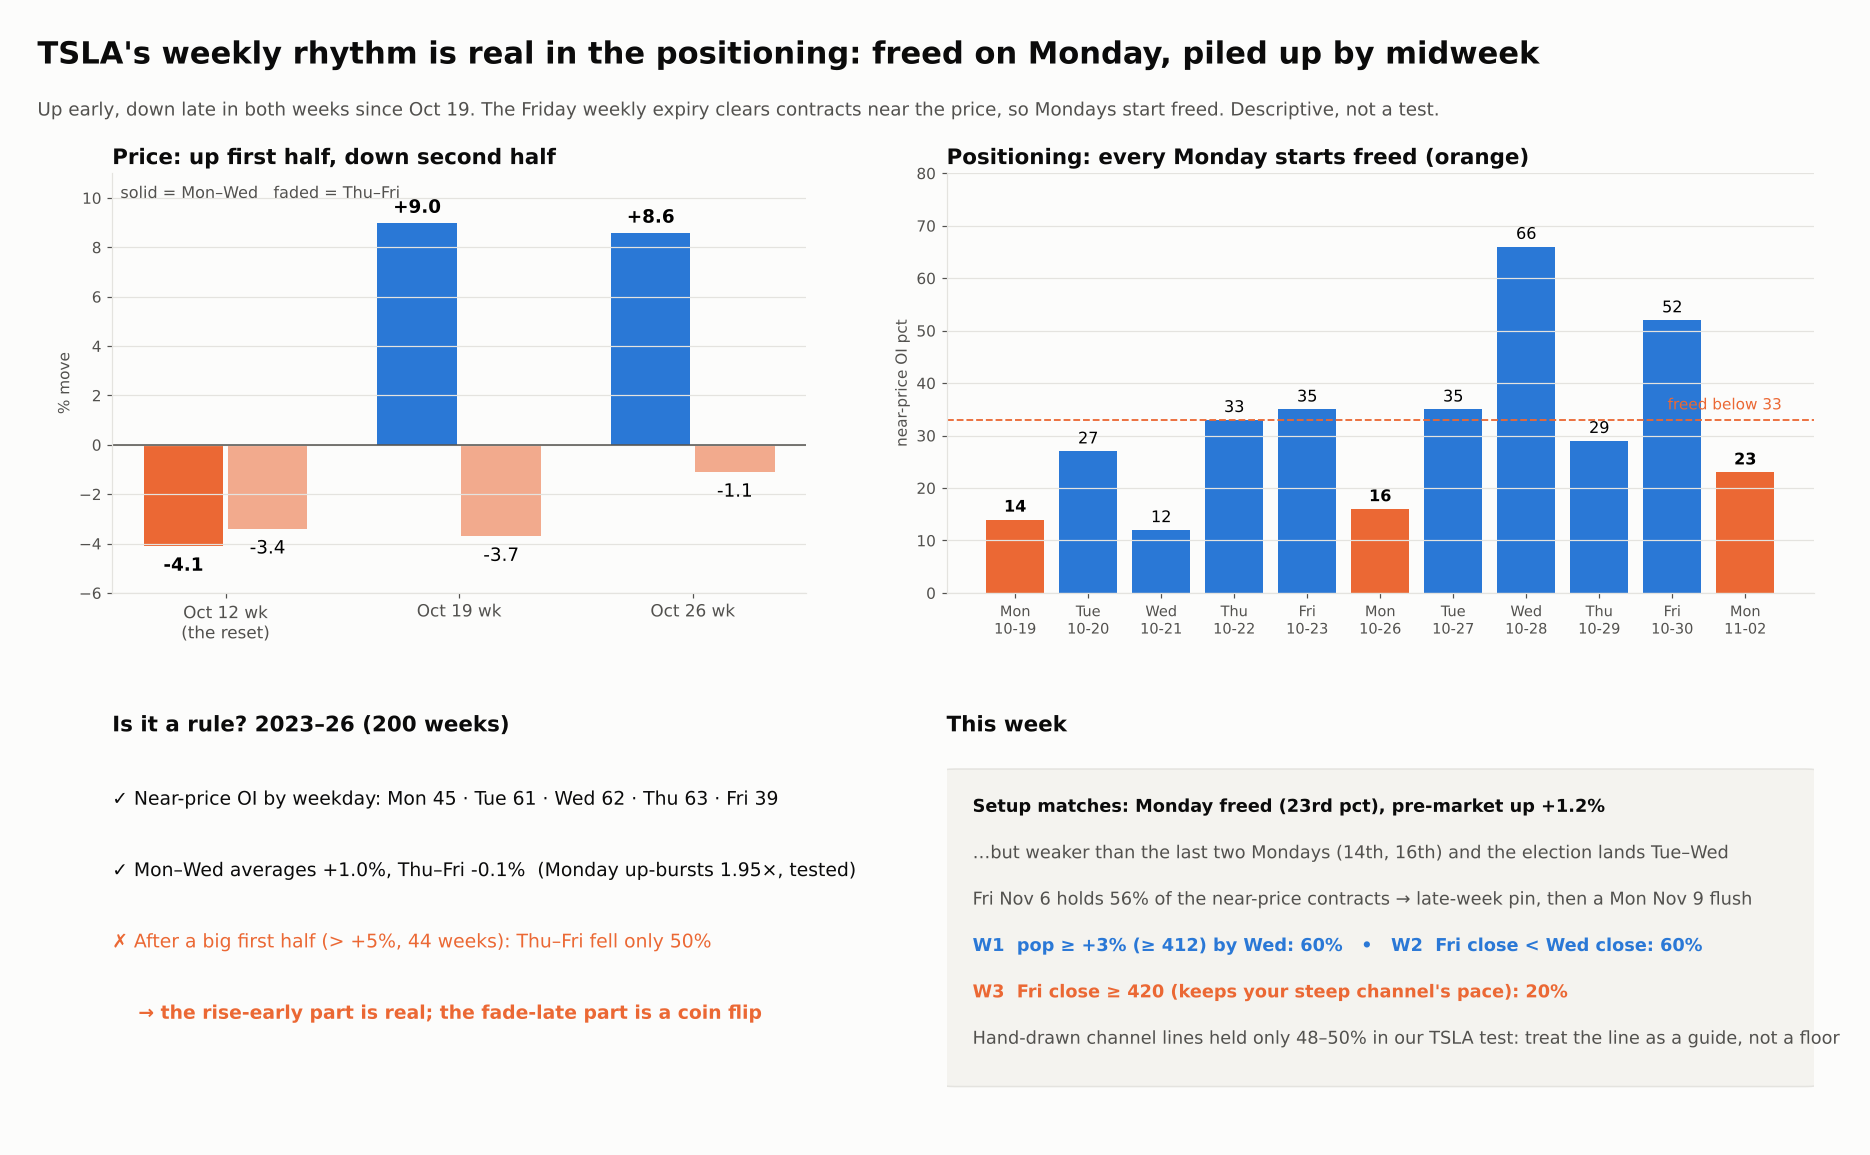
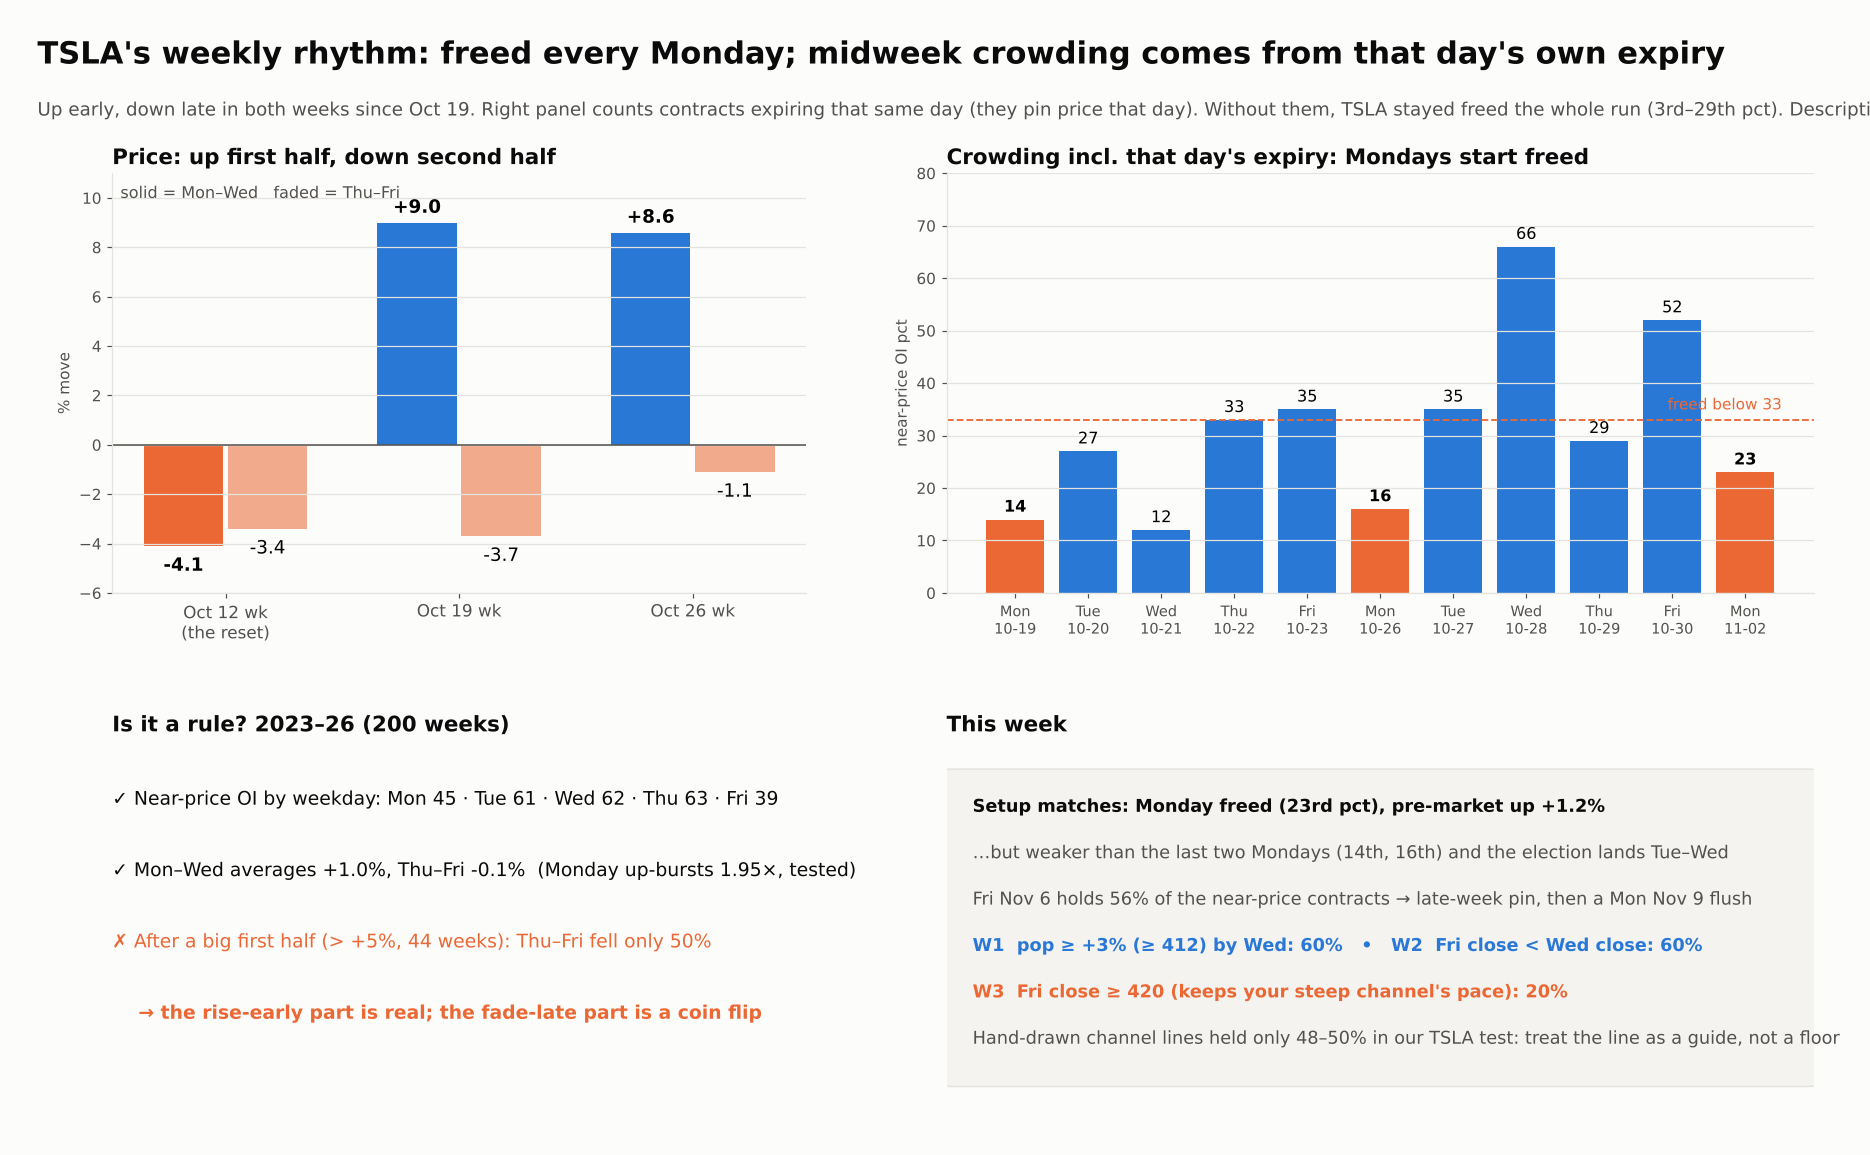
Erratum: TSLA October cycle recomputed with full-coverage chains (gamma slightly lower, TSLA freed throughout the run); figures corrected
Claude-Session: https://claude.ai/code/session_01BLeRcE4q4QKts4yCLqRzgv

Changed region(s): [[0.2791, 0.0935, 0.8684, 0.1558], [0.2171, 0.0312, 0.9305, 0.0623], [0.9615, 0.0935, 1.0, 0.1247]]

diff --git a/research/agents/2026-11-02-live-read/figure_tsla_cycle.py b/research/agents/2026-11-02-live-read/figure_tsla_cycle.py
@@ -9,9 +9,9 @@ BLUE, ORG, BG, INK, INK2, GRID, GRAY = "#2a78d6", "#eb6834", "#fcfcfb", "#0b0b0b
 plt.rcParams.update({"font.family": "DejaVu Sans", "axes.edgecolor": GRID, "axes.labelcolor": INK2, "xtick.color": INK2, "ytick.color": INK2, "axes.spines.top": False, "axes.spines.right": False})
 fig, axs = plt.subplots(3, 1, figsize=(16, 12.5), sharex=True, facecolor=BG, gridspec_kw=dict(height_ratios=[1.35, 1, 1], hspace=0.12))
 fig.subplots_adjust(left=0.07, right=0.97, top=0.86, bottom=0.06)
-fig.text(0.02, 0.955, "TSLA's October cycle lined up: reset → rebuild with price → dip → bigger block → pinned stall", fontsize=19, weight="bold", color=INK)
+fig.text(0.02, 0.955, "TSLA's October cycle (corrected): reset → rebuild with price → dip → bigger block → pinned stall", fontsize=19, weight="bold", color=INK)
 fig.text(0.02, 0.915, "Own gamma and freed: engine recipe, positions going into each day. TSLA DIX = FINRA dark-pool index, 5-day mean ranked vs its past year.\n"
-         "Descriptive map, not a test. Phases follow REPORT §4v (the named TSLA moves): flush at the flip → first block → dip → bigger block → stall into a pile of OI.", fontsize=11, color=INK2)
+         "Corrected 09:40 ET: full-coverage chains (an earlier version capped expiries at 70 days and overstated gamma and near-OI). Descriptive map, not a test (REPORT §4v template).", fontsize=11, color=INK2)
 idx = list(x.index); pos = {d: i for i, d in enumerate(idx)}; X = range(len(idx))
 P = [("RESET", "2026-10-14", "2026-10-16", ORG), ("BLOCK 1\n+9%", "2026-10-19", "2026-10-21", BLUE), ("DIP to\nthe flip", "2026-10-22", "2026-10-23", ORG),
      ("BLOCK 2\n+9.5%", "2026-10-26", "2026-10-27", BLUE), ("PINNED\nstall", "2026-10-28", "2026-10-30", GRAY)]
@@ -25,11 +25,12 @@ ax.step(X, x["call wall"], where="mid", color=BLUE, lw=1.3, alpha=0.8, label="ca
 for lab, a, b, col in P: ax.text((pos[pd.Timestamp(a)] + pos[pd.Timestamp(b)]) / 2, 342, lab, ha="center", va="bottom", fontsize=11.5, weight="bold", color=col if col != GRAY else INK2)
 ax.set_ylim(340, 425); ax.text(len(idx) - 0.6, 399.9, " now 402\n pre-mkt", fontsize=10, color=INK, va="center")
 ax = axs[1]; ax.axhspan(0, 0.30, color=ORG, alpha=0.08, lw=0); ax.axhspan(0.90, 1.02, color=BLUE, alpha=0.10, lw=0)
-ax.plot(X, x["own gamma pct"], color=BLUE, lw=2.4, marker="o", ms=4); ax.set_ylim(0, 1.02); ax.set_ylabel("own gamma pct")
+ax.plot(X, x["own gamma pct"], color=BLUE, lw=2.4, marker="o", ms=4, label="own gamma pct"); ax.plot(X, x["near-OI pct (freed <= 0.33)"], color=ORG, lw=1.8, ls="--", marker="s", ms=3, label="near-price OI pct (freed below 0.33)")
+ax.axhline(1 / 3, color=ORG, lw=0.8, ls=":"); ax.legend(fontsize=9.5, frameon=False, loc="upper left", bbox_to_anchor=(0.0, 0.88)); ax.set_ylim(0, 1.02); ax.set_ylabel("percentile")
 ax.text(0.2, 0.05, "reset ≤ 0.30", fontsize=10, color=ORG); ax.text(0.2, 0.93, "pinned ≥ 0.90", fontsize=10, color=BLUE)
-ax.annotate("0.14: flushed at the flip", (pos[pd.Timestamp("2026-10-16")], 0.14), (pos[pd.Timestamp("2026-10-16")] - 5.5, 0.42), fontsize=10, arrowprops=dict(arrowstyle="-", color=GRAY))
-ax.annotate("1.00: pinned", (pos[pd.Timestamp("2026-10-27")], 1.0), (pos[pd.Timestamp("2026-10-27")] - 4.2, 0.72), fontsize=10, arrowprops=dict(arrowstyle="-", color=GRAY))
-ax.annotate("0.66 after the\nOct 30 expiry", (pos[pd.Timestamp("2026-10-30")], 0.66), (pos[pd.Timestamp("2026-10-30")] - 2.6, 0.30), fontsize=10, arrowprops=dict(arrowstyle="-", color=GRAY))
+ax.annotate("0.17: flushed at the flip", (pos[pd.Timestamp("2026-10-16")], 0.17), (pos[pd.Timestamp("2026-10-16")] - 5.5, 0.42), fontsize=10, arrowprops=dict(arrowstyle="-", color=GRAY))
+ax.annotate("0.93: pinned", (pos[pd.Timestamp("2026-10-27")], 0.93), (pos[pd.Timestamp("2026-10-27")] - 4.2, 0.72), fontsize=10, arrowprops=dict(arrowstyle="-", color=GRAY))
+ax.annotate("0.60 after the\nOct 30 expiry", (pos[pd.Timestamp("2026-10-30")], 0.60), (pos[pd.Timestamp("2026-10-30")] - 2.6, 0.30), fontsize=10, arrowprops=dict(arrowstyle="-", color=GRAY))
 ax = axs[2]; ax.plot(X, x["TSLA DPI 5d pct"], color=INK, lw=2.4, marker="o", ms=4, label="TSLA DIX (5-day pct)")
 ax.plot(X, x["S&P GEX pct"], color=GRAY, lw=1.4, label="S&P gamma pct (for contrast)"); ax.set_ylim(0, 1.02); ax.set_ylabel("percentile")
 ax.axhline(2 / 3, color=BLUE, ls=":", lw=1); ax.text(0.2, 0.69, "top third", fontsize=10, color=BLUE)

diff --git a/research/agents/2026-11-02-live-read/figure_tsla_adhd.py b/research/agents/2026-11-02-live-read/figure_tsla_adhd.py
@@ -9,29 +9,29 @@ BLUE, ORG, BG, INK, INK2, GRID, GRAY, LG = "#2a78d6", "#eb6834", "#fcfcfb", "#0b
 plt.rcParams.update({"font.family": "DejaVu Sans"})
 fig = plt.figure(figsize=(17, 9.6), facecolor=BG); ax = fig.add_axes([0, 0, 1, 1]); ax.axis("off"); ax.set_xlim(0, 100); ax.set_ylim(0, 100)
 ax.text(2.5, 94, "TSLA's October run, in 6 boxes", fontsize=26, weight="bold", color=INK)
-ax.text(2.5, 89.3, "Bars: gamma = dealer cushion (full = pinned)   •   DIX = dark-pool buying (full = heavy buying)", fontsize=13.5, color=INK2)
-B = [("1. RESET", "Oct 14–16", "355", "on the flip", 0.14, 0.01, "cushion gone,\nsellers done", ORG),
-     ("2. BLOCK 1", "Oct 19–21", "387", "+9%", 0.87, 0.53, "gamma rebuilds\nwith price", BLUE),
-     ("3. DIP", "Oct 22–23", "372", "back to flip", 0.30, 0.73, "flush again,\nbuyers step in", ORG),
-     ("4. BLOCK 2", "Oct 26–27", "408", "+9.5%", 1.00, 0.75, "bigger leg,\ngamma maxed", BLUE),
-     ("5. STALL", "Oct 28–30", "400", "pinned", 0.95, 0.71, "stuck in a pile\nof contracts", GRAY),
-     ("NOW", "Mon Nov 2", "402", "6% above flip", 0.65, 0.65, "pause,\nnot a top", INK)]
+ax.text(2.5, 89.3, "Bars: gamma = dealer cushion (full = pinned) • DIX = dark-pool buying • crowding = contracts near the price (short = freed). Corrected 09:40 ET.", fontsize=12.5, color=INK2)
+B = [("1. RESET", "Oct 14–16", "355", "on the flip", 0.17, 0.02, 0.03, "cushion gone,\nsellers done", ORG),
+     ("2. BLOCK 1", "Oct 19–21", "387", "+9%", 0.75, 0.53, 0.25, "gamma rebuilds\nwith price", BLUE),
+     ("3. DIP", "Oct 22–23", "372", "near the flip", 0.31, 0.73, 0.04, "flush again,\nbuyers step in", ORG),
+     ("4. BLOCK 2", "Oct 26–27", "408", "+9.5%", 0.93, 0.75, 0.18, "bigger leg,\ngamma maxed", BLUE),
+     ("5. STALL", "Oct 28–30", "400", "pinned", 0.90, 0.71, 0.29, "gamma maxed,\nfreed closing", GRAY),
+     ("NOW", "Mon Nov 2", "402", "6% above flip", 0.65, 0.65, 0.23, "pause,\nnot a top", INK)]
 w, gap, x0 = 14.6, 1.6, 2.5
-for i, (t, d, px, sub, gm, dx, meaning, col) in enumerate(B):
+for i, (t, d, px, sub, gm, dx, fr, meaning, col) in enumerate(B):
     x = x0 + i * (w + gap)
     ax.add_patch(FancyBboxPatch((x, 30), w, 54, boxstyle="round,pad=0.3,rounding_size=1.5", fc="white" if t != "NOW" else "#f4f3ef", ec=col, lw=2.6))
     ax.text(x + w / 2, 79.5, t, ha="center", fontsize=16, weight="bold", color=col)
     ax.text(x + w / 2, 75.6, d, ha="center", fontsize=11, color=INK2)
     ax.text(x + w / 2, 66.5, px, ha="center", fontsize=30, weight="bold", color=INK)
     ax.text(x + w / 2, 62.2, sub, ha="center", fontsize=11.5, color=INK2)
-    for j, (lab, v, c) in enumerate([("gamma", gm, BLUE), ("DIX", dx, INK)]):
-        y = 53 - j * 7
+    for j, (lab, v, c) in enumerate([("gamma", gm, BLUE), ("DIX", dx, INK), ("crowding (low = freed)", fr, ORG)]):
+        y = 54 - j * 6.2
         ax.text(x + 0.8, y + 2.6, lab, fontsize=10.5, color=INK2)
         ax.add_patch(FancyBboxPatch((x + 0.8, y), w - 1.6, 2, boxstyle="round,pad=0,rounding_size=0.8", fc=LG, ec="none"))
         ax.add_patch(FancyBboxPatch((x + 0.8, y), max((w - 1.6) * v, 1.0), 2, boxstyle="round,pad=0,rounding_size=0.8", fc=c, ec="none"))
     ax.text(x + w / 2, 35.3, meaning, ha="center", va="center", fontsize=12, color=INK, weight="bold")
     if i < len(B) - 1: ax.annotate("", (x + w + gap - 0.1, 57), (x + w + 0.1, 57), arrowprops=dict(arrowstyle="-|>", color=GRAY, lw=2))
-ax.text(2.5, 23.5, "It lined up: cushion reset at the flip → rebuilt with each leg → maxed at the top. Dark-pool buying rose from washed-out to strong.", fontsize=13.5, color=INK, weight="bold")
+ax.text(2.5, 23.5, "It lined up: cushion reset at the flip → rebuilt with each leg → maxed at the top. Freed the whole run. Dark-pool buying rose from washed-out to strong.", fontsize=13.5, color=INK, weight="bold")
 ax.add_patch(FancyBboxPatch((2.5, 2.5), 45.5, 16, boxstyle="round,pad=0.3,rounding_size=1.5", fc="#eaf2fb", ec=BLUE, lw=1.5))
 ax.text(4, 15.3, "NEXT, path A: dip to ~377–381 (the flip)", fontsize=14, weight="bold", color=BLUE)
 ax.text(4, 10.8, "flushes the cushion again = the start of the\nnext leg (strongest if 'freed' too). Likely around\nthe Nov 6 or Nov 20 expiries.", fontsize=11.8, color=INK, va="center")

diff --git a/research/agents/2026-11-02-live-read/figure_weekly.py b/research/agents/2026-11-02-live-read/figure_weekly.py
@@ -10,8 +10,8 @@ BLUE, ORG, BG, INK, INK2, GRID, GRAY, LG = "#2a78d6", "#eb6834", "#fcfcfb", "#0b
 plt.rcParams.update({"font.family": "DejaVu Sans", "axes.edgecolor": GRID, "axes.labelcolor": INK2, "xtick.color": INK2, "ytick.color": INK2, "axes.spines.top": False, "axes.spines.right": False})
 fig = plt.figure(figsize=(17, 10.5), facecolor=BG)
 gs = fig.add_gridspec(2, 2, height_ratios=[1, 0.85], width_ratios=[1, 1.25], hspace=0.38, wspace=0.18, left=0.06, right=0.97, top=0.85, bottom=0.05)
-fig.text(0.02, 0.945, "TSLA's weekly rhythm is real in the positioning: freed on Monday, piled up by midweek", fontsize=20, weight="bold", color=INK)
-fig.text(0.02, 0.9, "Up early, down late in both weeks since Oct 19. The Friday weekly expiry clears contracts near the price, so Mondays start freed. Descriptive, not a test.", fontsize=12, color=INK2)
+fig.text(0.02, 0.945, "TSLA's weekly rhythm: freed every Monday; midweek crowding comes from that day's own expiry", fontsize=20, weight="bold", color=INK)
+fig.text(0.02, 0.9, "Up early, down late in both weeks since Oct 19. Right panel counts contracts expiring that same day (they pin price that day). Without them, TSLA stayed freed the whole run (3rd–29th pct). Descriptive.", fontsize=12, color=INK2)
 ax = fig.add_subplot(gs[0, 0]); ax.set_facecolor(BG)
 wk = W["(c) by week, compounded % [Mon-Wed, Thu-Fri]"]; labs = ["Oct 12 wk\n(the reset)", "Oct 19 wk", "Oct 26 wk"]
 for i, (k, (a, b)) in enumerate(wk.items()):
@@ -26,7 +26,7 @@ cols = [ORG if a[k]["weekday"] == "Mon" else BLUE for k in d]
 ax.bar(range(len(d)), v, color=cols); ax.axhline(33, color=ORG, ls="--", lw=1.2); ax.text(len(d) - 0.5, 35, "freed below 33", fontsize=10, color=ORG, ha="right")
 for i, (k, x) in enumerate(zip(d, v)): ax.text(i, x + 1.5, f"{x:.0f}", ha="center", fontsize=10.5, weight="bold" if a[k]["weekday"] == "Mon" else "normal")
 ax.set_xticks(range(len(d))); ax.set_xticklabels([a[k]["weekday"] + "\n" + k[5:] for k in d], fontsize=9.5); ax.set_ylim(0, 80); ax.set_ylabel("near-price OI pct"); ax.yaxis.grid(True, color=GRID)
-ax.set_title("Positioning: every Monday starts freed (orange)", loc="left", fontsize=14, weight="bold", color=INK)
+ax.set_title("Crowding incl. that day's expiry: Mondays start freed", loc="left", fontsize=14, weight="bold", color=INK)
 ax = fig.add_subplot(gs[1, 0]); ax.axis("off")
 b = W["(b) engine 2023-Oct 2026, mean pct by weekday [near-OI pct, own-gamma pct, n]"]; dd = W["(d) 2023-26 weeks (n, mean Mon-Wed %, mean Thu-Fri %, share of weeks up-then-down)"]; up = W["(d) weeks with Mon-Wed > +5%: n, mean Thu-Fri %, share Thu-Fri down"]
 ax.set_title("Is it a rule? 2023–26 (200 weeks)", loc="left", fontsize=14, weight="bold", color=INK)

diff --git a/research/agents/2026-11-02-live-read/README.md b/research/agents/2026-11-02-live-read/README.md
@@ -373,3 +373,25 @@ S1, S2, S7 and T1–T4 are unchanged.
   * **Reading:** the rise-early half has support (the positioning cycle, plus the tested Monday up-burst effect, 1.95×). The fade-late half is a coin flip.
   * **This week** has the same setup, but weaker (Monday freed at 23rd vs 14th/16th). The election lands midweek, and the heavy Nov 6 expiry (56%) argues for a late-week pin.
   * Hand-drawn channel lines held 48–50% in our TSLA test (Tier 4), so the owner's steep channel is a guide, not a floor.
+
+---
+
+## Erratum (09:40 ET): TSLA October cycle recomputed with full-coverage chains
+* The owner asked whether the DIX and gamma-reset visuals were accurate. Partly not.
+* **TSLA's DIX (FINRA) and the S&P GEX/DIX were right**: they don't use option chains.
+* **TSLA's own gamma and near-OI for Oct 15–30 were wrong.** The chain file was capped at 70 days. Re-pulled: `TSLA_eod_20261014_20261030` (≤ 125 DTE, ThetaData Value tier, $0). The old rows are kept in `out/tsla_cycle_oct_70d_cap_ERRATUM.csv`.
+* **Validation:** the recomputed Oct 30 own gamma is **0.60**, matching week-review's 60th pct (same OI, full chain).
+
+| Date | Own gamma (old → **new**) | Near-OI pct (old → **new**) | % above flip (new) |
+|---|---|---|---|
+| Oct 16 (reset) | 0.14 → **0.17** | 0.45 → **0.03** | +0.4% |
+| Oct 21 (block 1 top) | 0.87 → **0.75** | 0.91 → **0.25** | +9.1% |
+| Oct 23 (dip) | 0.30 → **0.31** | 0.64 → **0.04** | +2.0% |
+| Oct 27 (block 2 top) | 1.00 → **0.93** | 0.90 → **0.18** | +10.7% |
+| Oct 29 (stall) | 0.96 → **0.90** | 0.96 → **0.29** | +7.7% |
+| Oct 30 | 0.66 → **0.60** | 0.73 → **0.05** | +7.4% |
+
+* **The shape holds:** reset at the flip, rebuild with each block, a second flush at the dip, a pin (≥ 0.90) at the top.
+* **What was wrong:** "stalled into a pile of OI (near-OI 0.93–0.96)". Near-price OI stayed low the whole run (0.03–0.29), so **TSLA was freed throughout**, which fits the tested freed → up-burst result. The stall came with own gamma pinned while the freed reading crept up (0.18 → 0.29 by Oct 29).
+* **Weekly-rhythm figure:** its right panel counts contracts expiring that same day. Those do pin price that day, which is what makes midweek look crowded. Excluding them, the same days read 0.03–0.29. Labels corrected.
+* **Figures re-rendered:** `tsla_cycle_oct.png`, `tsla_cycle_adhd.png` (adds a crowding bar), `weekly_rhythm.png`.
